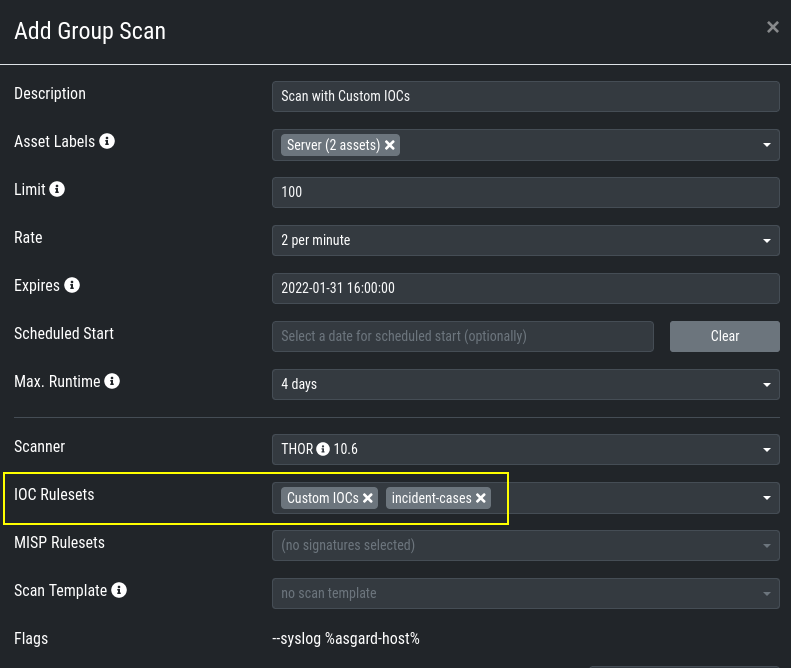
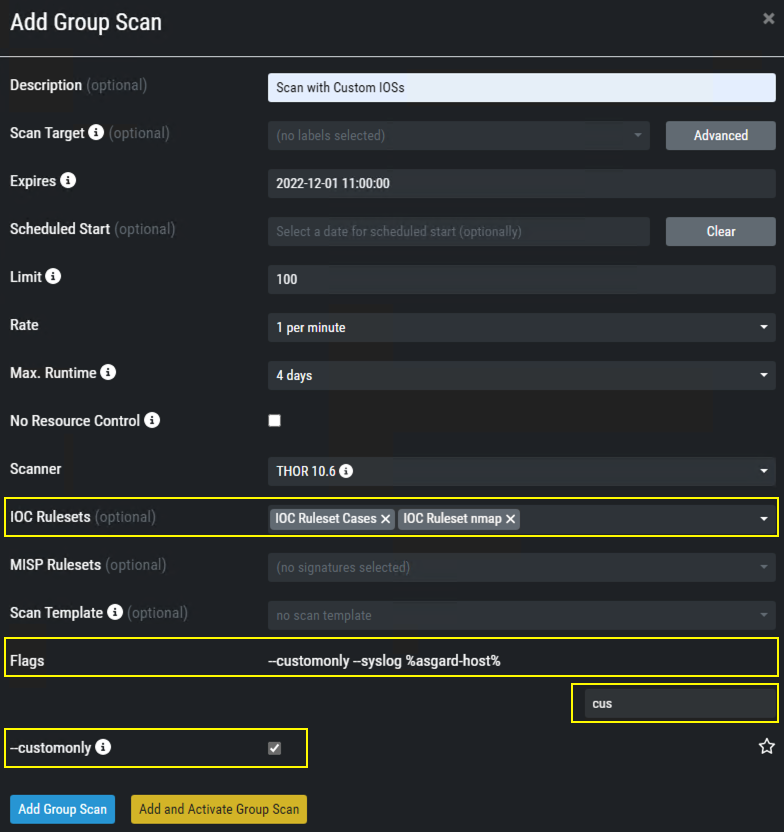
docs: Add new section Scan only with IOCs

diff --git a/usage/administration.rst b/usage/administration.rst
@@ -1162,7 +1162,13 @@ After that, click on an entry in the table to expand it. There you get informati
 
    Buttons to Add/Remove IOC Groups
 
-Those rulesets can be selected in the "Custom Signature" field while creating a new scan job. If a ruleset is selected, the scan will include all custom IOCs included in IOC Groups which have been added to this ruleset. You can also select more than one ruleset.
+Scan only with Custom IOCs
+^^^^^^^^^^^^^^^^^^^^^^^^^^
+
+Those rulesets can be selected in the "IOC Rulesets" field while creating a new scan job.
+If a ruleset is selected, the scan will include all custom IOCs included in IOC Groups which have been added to this ruleset. You can also select more than one ruleset.
+
+The THOR scan would be performed with the default settings and the custom ruleset, the default signatures would not be applied.
 
 .. figure:: ../images/select-ruleset.png
    :target: ../_images/select-ruleset.png
@@ -1170,6 +1176,8 @@ Those rulesets can be selected in the "Custom Signature" field while creating a 
 
    Select Ruleset while creating a scan job
 
+.. note::
+   To scan exclusively with the custom ruleset, the flag  `--customonly <https://thor-manual.nextron-systems.com/en/latest/usage/flags.html#feature-extras>`_ must be set.
 
 Integrating IOCs through MISP
 ^^^^^^^^^^^^^^^^^^^^^^^^^^^^^
